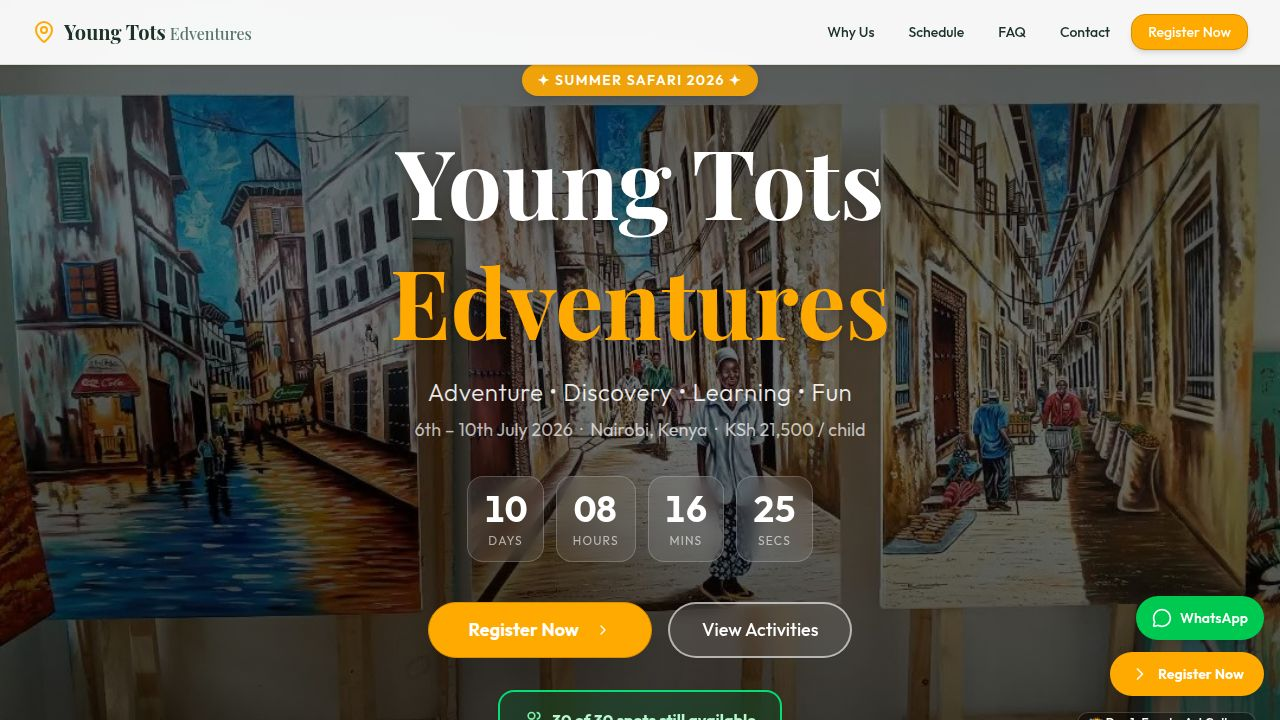
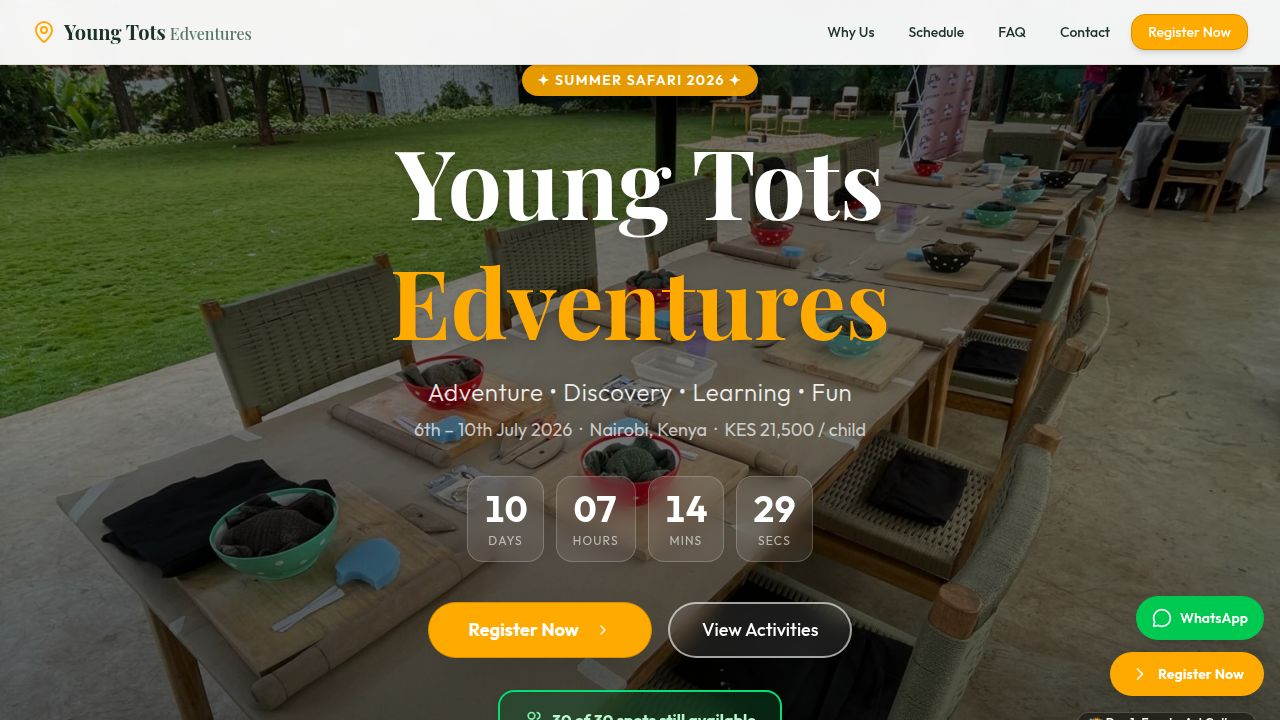
Update website images and gallery interactivity
Implement interactive photo gallery with day-specific filters and lightbox functionality, while restoring original hero and schedule card images.

Replit-Commit-Author: Agent
Replit-Commit-Session-Id: a6395f73-2dc2-4b6d-b7f3-4e983b257e11
Replit-Commit-Checkpoint-Type: full_checkpoint
Replit-Commit-Event-Id: 2cbfb461-026c-4d89-a068-555e33c44f44
Replit-Commit-Screenshot-Url: https://storage.googleapis.com/screenshot-production-us-central1/ba12384f-2d66-4afa-b3f0-8e179a0a3a71/a6395f73-2dc2-4b6d-b7f3-4e983b257e11/90hpMK4
Replit-Helium-Checkpoint-Created: true

diff --git a/artifacts/summer-safari/src/pages/landing.tsx b/artifacts/summer-safari/src/pages/landing.tsx
@@ -1,6 +1,6 @@
 import { Link } from "wouter";
 import { useState, useEffect } from "react";
-import { motion, type Variants } from "framer-motion";
+import { motion, AnimatePresence, type Variants } from "framer-motion";
 import { Button } from "@/components/ui/button";
 import { Card, CardContent } from "@/components/ui/card";
 import { Badge } from "@/components/ui/badge";
@@ -8,42 +8,88 @@ import {
   MapPin, Calendar, Clock, Bus, Apple, PhoneCall, MessageCircle,
   ChevronRight, Check, CheckCircle2, Users, Shield, Heart,
   ChevronDown, ChevronUp, Sparkles, Award, Camera, Utensils,
-  Mail, Compass, BookOpen, Leaf, PartyPopper
+  Mail, Compass, BookOpen, Leaf, PartyPopper, X
 } from "lucide-react";
 import { useGetRegistrationCount } from "@workspace/api-client-react";
 
-// Real Images
+// Original approved photos (Hero slideshow + Day cards)
 import enankaLogo from "@assets/Enanka_art_gallery_logo_1781863628482.png";
-import enankaPaintings from "@assets/Enanka_1_1782420466047.jpg";
-import enankaPainting from "@assets/Enanka_7_1782420523829.jpg";
+import enankaGallery from "@assets/Enanka_art_gallery_1781863628482.webp";
+import enankaClay from "@assets/Enanka__1781863628482.jpg";
+import enankaArt from "@assets/Enanka_art_1781863628482.webp";
 
 import pinsLogo from "@assets/Pins_logo_1781863628483.jpg";
+import pinsJungle from "@assets/kids_jungle_-_pins_1781863628483.webp";
+
+import stedmakLogo from "@assets/Stedmak_hotels_&_gardens_logo_1781863628483.jpg";
+import stedmakLion from "@assets/Stedmak_zoo_1781863628484.jpg";
+import stedmakLovebird from "@assets/Stedmak_zoo_2_1781863628483.jpg";
+
+import ginahLogo from "@assets/Ginah's_bakery_1781863628482.png";
+import ginahCookies from "@assets/Ginah's_1781863628482.jpg";
+
+import cinemaxLogo from "@assets/Cinemax_logo_1781863560866.png";
+import cinemaxInterior from "@assets/Century_cinemax_1781863628481.jpg";
+
+// New photos (Adventure in Pictures gallery only)
+import enankaPaintings from "@assets/Enanka_1_1782420466047.jpg";
+import enankaPainting from "@assets/Enanka_7_1782420523829.jpg";
 import pinsBowling from "@assets/Pins_1_1782420615995.jpg";
 import pinsSlides from "@assets/Pins_2_1782420640979.jpg";
 import pinsPlayground from "@assets/Pins_5_1782420667125.jpeg";
-
-import stedmakLogo from "@assets/Stedmak_hotels_&_gardens_logo_1781863628483.jpg";
 import stedmakNight from "@assets/Stedmak_1_1782420736044.jpg";
 import stedmakAerial from "@assets/Stedmak_2_1782420750496.jpg";
 import stedmakPlayground from "@assets/Stedmak_4_1782420793986.jpg";
-
-import ginahLogo from "@assets/Ginah's_bakery_1781863628482.png";
 import ginahCake from "@assets/Gina_3_1782420545576.jpg";
 import ginahCupcakes from "@assets/Gina_4_1782420577959.jpg";
 import ginahSafariCake from "@assets/Gina_5_1782420597645.jpg";
-
-import cinemaxLogo from "@assets/Cinemax_logo_1781863560866.png";
 import centuryConcession from "@assets/Century_1_1782420390082.jpeg";
 import centuryOrange from "@assets/Century_3_1782420407142.jpg";
 import centuryImax from "@assets/Century_4_1782420416012.jpg";
 
 const HERO_SLIDES = [
-  { src: enankaPaintings, alt: "Art Gallery – Day 1", caption: "Day 1 · Enanka Art Gallery" },
-  { src: pinsPlayground, alt: "Kids Playground – Day 2", caption: "Day 2 · Pins Entertainment" },
-  { src: stedmakAerial, alt: "Adventure Park – Day 3", caption: "Day 3 · Stedmak Gardens" },
-  { src: ginahSafariCake, alt: "Baking – Day 4", caption: "Day 4 · Ginah's Bakery" },
-  { src: centuryImax, alt: "Movie Day – Day 5", caption: "Day 5 · Movie Celebration" },
+  { src: enankaGallery, alt: "Art Gallery – Day 1", caption: "Day 1 · Enanka Art Gallery" },
+  { src: pinsJungle, alt: "Kids Jungle – Day 2", caption: "Day 2 · Pins Entertainment" },
+  { src: stedmakLion, alt: "Animal Park – Day 3", caption: "Day 3 · Stedmak Gardens" },
+  { src: ginahCookies, alt: "Baking – Day 4", caption: "Day 4 · Ginah's Bakery" },
+  { src: cinemaxInterior, alt: "Movie Day – Day 5", caption: "Day 5 · Movie Celebration" },
 ];
+
+type GalleryPhoto = { day: number; src: string; alt: string };
+
+const GALLERY: GalleryPhoto[] = [
+  { day: 1, src: enankaPaintings, alt: "Art exhibition at Enanka Art Gallery" },
+  { day: 1, src: enankaPainting, alt: "Colourful paintings at Enanka Art Gallery" },
+  { day: 2, src: pinsPlayground, alt: "Indoor playground at The Jungle, Pins" },
+  { day: 2, src: pinsSlides, alt: "Play slides at The Jungle" },
+  { day: 2, src: pinsBowling, alt: "Bowling lanes at Pins Entertainment" },
+  { day: 3, src: stedmakAerial, alt: "Adventure park at Stedmak Gardens" },
+  { day: 3, src: stedmakPlayground, alt: "Outdoor playground at Stedmak Gardens" },
+  { day: 3, src: stedmakNight, alt: "Gardens at Stedmak" },
+  { day: 4, src: ginahSafariCake, alt: "Safari celebration cake at Ginah's Bakery" },
+  { day: 4, src: ginahCupcakes, alt: "Decorated cupcakes at Ginah's Bakery" },
+  { day: 4, src: ginahCake, alt: "Decorated cake at Ginah's Bakery" },
+  { day: 5, src: centuryImax, alt: "IMAX cinema at Century, Junction Mall" },
+  { day: 5, src: centuryOrange, alt: "Cinema hall at Century" },
+  { day: 5, src: centuryConcession, alt: "Cinema concession at Century" },
+];
+
+const DAY_FILTERS = [
+  { id: 0, label: "All Days", emoji: "✨" },
+  { id: 1, label: "Day 1 · Enanka Art", emoji: "🎨" },
+  { id: 2, label: "Day 2 · The Jungle", emoji: "🎮" },
+  { id: 3, label: "Day 3 · Stedmak Gardens", emoji: "🦁" },
+  { id: 4, label: "Day 4 · Ginah's Bakery", emoji: "🍪" },
+  { id: 5, label: "Day 5 · Movie Day", emoji: "🎬" },
+];
+
+const DAY_HEADINGS: Record<number, string> = {
+  1: "🎨 Day 1 — Enanka Art Gallery",
+  2: "🎮 Day 2 — Adventure at The Jungle",
+  3: "🦁 Day 3 — Exploring Stedmak Gardens",
+  4: "🍪 Day 4 — Baking at Ginah's Bakery",
+  5: "🎬 Day 5 — Movie Day Grand Finale",
+};
 
 const SAFARI_START = new Date("2026-07-06T08:15:00+03:00");
 
@@ -140,6 +186,18 @@ export default function Landing() {
     const id = setInterval(() => setSlideIdx(i => (i + 1) % HERO_SLIDES.length), 4500);
     return () => clearInterval(id);
   }, []);
+
+  const [activeDay, setActiveDay] = useState(0);
+  const [lightbox, setLightbox] = useState<GalleryPhoto | null>(null);
+  useEffect(() => {
+    const onKey = (e: KeyboardEvent) => { if (e.key === "Escape") setLightbox(null); };
+    window.addEventListener("keydown", onKey);
+    return () => window.removeEventListener("keydown", onKey);
+  }, []);
+  useEffect(() => {
+    document.body.style.overflow = lightbox ? "hidden" : "";
+    return () => { document.body.style.overflow = ""; };
+  }, [lightbox]);
 
   const item: Variants = {
     hidden: { opacity: 0, y: 24 },
@@ -428,8 +486,9 @@ export default function Landing() {
                 <div className="flex flex-col md:flex-row">
                   <div className="w-full md:w-2/5 p-1 bg-amber-50 overflow-hidden">
                     <div className="grid grid-cols-2 gap-1 rounded-lg overflow-hidden h-[260px] md:h-full md:min-h-[320px]">
-                      <img src={enankaPaintings} alt="Art exhibition" className="w-full h-full object-cover group-hover:scale-105 transition-transform duration-700" />
-                      <img src={enankaPainting} alt="Child painting" className="w-full h-full object-cover group-hover:scale-105 transition-transform duration-700" />
+                      <img src={enankaGallery} alt="Gallery Setup" className="w-full h-full object-cover col-span-2 row-span-1 group-hover:scale-105 transition-transform duration-700" />
+                      <img src={enankaClay} alt="Clay Pottery" className="w-full h-full object-cover group-hover:scale-105 transition-transform duration-700" />
+                      <img src={enankaArt} alt="Art Studio" className="w-full h-full object-cover group-hover:scale-105 transition-transform duration-700" />
                     </div>
                   </div>
                   <div className="p-6 md:p-10 flex-1 flex flex-col justify-center">
@@ -455,12 +514,8 @@ export default function Landing() {
             <motion.div initial="hidden" whileInView="show" viewport={{ once: true, margin: "-80px" }} variants={item}>
               <Card className="overflow-hidden border-0 shadow-lg hover:shadow-xl transition-shadow bg-white group">
                 <div className="flex flex-col md:flex-row-reverse">
-                  <div className="w-full md:w-2/5 p-1 bg-green-50 overflow-hidden">
-                    <div className="grid grid-cols-2 gap-1 rounded-lg overflow-hidden h-[260px] md:h-full md:min-h-[320px]">
-                      <img src={pinsPlayground} alt="Indoor playground" className="w-full h-full object-cover col-span-2 group-hover:scale-105 transition-transform duration-700" />
-                      <img src={pinsSlides} alt="Play slides" className="w-full h-full object-cover group-hover:scale-105 transition-transform duration-700" />
-                      <img src={pinsBowling} alt="Bowling" className="w-full h-full object-cover group-hover:scale-105 transition-transform duration-700" />
-                    </div>
+                  <div className="w-full md:w-2/5 h-[260px] md:h-auto overflow-hidden bg-green-50">
+                    <img src={pinsJungle} alt="Jungle Playground" className="w-full h-full object-cover group-hover:scale-105 transition-transform duration-700" />
                   </div>
                   <div className="p-6 md:p-10 flex-1 flex flex-col justify-center">
                     <div className="flex items-center justify-between mb-4">
@@ -487,9 +542,8 @@ export default function Landing() {
                 <div className="flex flex-col md:flex-row">
                   <div className="w-full md:w-2/5 p-1 bg-amber-50 overflow-hidden">
                     <div className="grid grid-cols-2 gap-1 rounded-lg overflow-hidden min-h-[260px]">
-                      <img src={stedmakAerial} alt="Adventure park" className="w-full h-full object-cover min-h-[260px] col-span-2 group-hover:scale-105 transition-transform duration-700" />
-                      <img src={stedmakPlayground} alt="Playground" className="w-full h-full object-cover min-h-[200px] group-hover:scale-105 transition-transform duration-700" />
-                      <img src={stedmakNight} alt="Gardens" className="w-full h-full object-cover min-h-[200px] group-hover:scale-105 transition-transform duration-700" />
+                      <img src={stedmakLion} alt="Animal Park" className="w-full h-full object-cover min-h-[260px] group-hover:scale-105 transition-transform duration-700" />
+                      <img src={stedmakLovebird} alt="Bird Park" className="w-full h-full object-cover min-h-[260px] group-hover:scale-105 transition-transform duration-700" />
                     </div>
                   </div>
                   <div className="p-6 md:p-10 flex-1 flex flex-col justify-center">
@@ -515,12 +569,8 @@ export default function Landing() {
             <motion.div initial="hidden" whileInView="show" viewport={{ once: true, margin: "-80px" }} variants={item}>
               <Card className="overflow-hidden border-0 shadow-lg hover:shadow-xl transition-shadow bg-white group">
                 <div className="flex flex-col md:flex-row-reverse">
-                  <div className="w-full md:w-2/5 p-1 bg-amber-50 overflow-hidden">
-                    <div className="grid grid-cols-2 gap-1 rounded-lg overflow-hidden h-[260px] md:h-full md:min-h-[320px]">
-                      <img src={ginahSafariCake} alt="Safari cake" className="w-full h-full object-cover col-span-2 group-hover:scale-105 transition-transform duration-700" />
-                      <img src={ginahCupcakes} alt="Safari cupcakes" className="w-full h-full object-cover group-hover:scale-105 transition-transform duration-700" />
-                      <img src={ginahCake} alt="Decorated cake" className="w-full h-full object-cover group-hover:scale-105 transition-transform duration-700" />
-                    </div>
+                  <div className="w-full md:w-2/5 h-[260px] md:h-auto overflow-hidden bg-amber-50">
+                    <img src={ginahCookies} alt="Baking cookies" className="w-full h-full object-cover group-hover:scale-105 transition-transform duration-700" />
                   </div>
                   <div className="p-6 md:p-10 flex-1 flex flex-col justify-center">
                     <div className="flex items-center justify-between mb-4">
@@ -545,12 +595,8 @@ export default function Landing() {
             <motion.div initial="hidden" whileInView="show" viewport={{ once: true, margin: "-80px" }} variants={item}>
               <Card className="overflow-hidden border-0 shadow-lg hover:shadow-xl transition-shadow bg-white group">
                 <div className="flex flex-col md:flex-row">
-                  <div className="w-full md:w-2/5 p-1 bg-slate-900 overflow-hidden">
-                    <div className="grid grid-cols-2 gap-1 rounded-lg overflow-hidden h-[260px] md:h-full md:min-h-[320px]">
-                      <img src={centuryImax} alt="IMAX cinema" className="w-full h-full object-cover col-span-2 group-hover:scale-105 transition-transform duration-700" />
-                      <img src={centuryOrange} alt="Cinema hall" className="w-full h-full object-cover group-hover:scale-105 transition-transform duration-700" />
-                      <img src={centuryConcession} alt="Concession stand" className="w-full h-full object-cover group-hover:scale-105 transition-transform duration-700" />
-                    </div>
+                  <div className="w-full md:w-2/5 h-[260px] md:h-auto overflow-hidden bg-slate-900">
+                    <img src={cinemaxInterior} alt="Cinema Interior" className="w-full h-full object-cover opacity-90 group-hover:scale-105 transition-transform duration-700" />
                   </div>
                   <div className="p-6 md:p-10 flex-1 flex flex-col justify-center">
                     <div className="flex items-center justify-between mb-4">
@@ -589,36 +635,57 @@ export default function Landing() {
             </motion.p>
           </motion.div>
 
-          <motion.div initial="hidden" whileInView="show" viewport={{ once: true }} variants={stagger} className="columns-2 md:columns-3 lg:columns-4 gap-3 space-y-3">
-            {[
-              { src: enankaPaintings, alt: "Art exhibition" },
-              { src: pinsPlayground, alt: "Indoor playground" },
-              { src: ginahSafariCake, alt: "Safari celebration cake" },
-              { src: stedmakAerial, alt: "Adventure park" },
-              { src: enankaPainting, alt: "Child painting" },
-              { src: pinsBowling, alt: "Bowling lanes" },
-              { src: ginahCupcakes, alt: "Safari cupcakes" },
-              { src: centuryImax, alt: "IMAX cinema" },
-              { src: stedmakPlayground, alt: "Outdoor playground" },
-              { src: pinsSlides, alt: "Play slides" },
-              { src: ginahCake, alt: "Decorated cake" },
-              { src: centuryOrange, alt: "Cinema hall" },
-              { src: stedmakNight, alt: "Gardens at night" },
-              { src: centuryConcession, alt: "Cinema concession" },
-            ].map(({ src, alt }, i) => (
-              <motion.div
-                key={i}
-                variants={item}
-                className="break-inside-avoid overflow-hidden rounded-xl shadow-sm hover:shadow-xl transition-all duration-300 group cursor-pointer"
+          {/* Day filter bar (horizontally scrollable on mobile) */}
+          <div className="flex gap-2 overflow-x-auto pb-3 mb-10 -mx-4 px-4 sm:flex-wrap sm:justify-center sm:mx-0 sm:px-0 scrollbar-hide">
+            {DAY_FILTERS.map((f) => (
+              <button
+                key={f.id}
+                onClick={() => setActiveDay(f.id)}
+                aria-pressed={activeDay === f.id}
+                className={`shrink-0 inline-flex items-center gap-1.5 rounded-full px-4 py-2 text-sm font-semibold transition-all border ${
+                  activeDay === f.id
+                    ? "bg-primary text-white border-primary shadow-md"
+                    : "bg-white text-foreground/70 border-border hover:border-primary/50 hover:text-primary"
+                }`}
               >
-                <img
-                  src={src}
-                  alt={alt}
-                  className="w-full h-auto object-cover group-hover:scale-105 transition-transform duration-500"
-                />
-              </motion.div>
+                <span aria-hidden="true">{f.emoji}</span>{f.label}
+              </button>
             ))}
-          </motion.div>
+          </div>
+
+          <AnimatePresence mode="wait">
+            <motion.div
+              key={activeDay}
+              initial={{ opacity: 0 }}
+              animate={{ opacity: 1 }}
+              exit={{ opacity: 0 }}
+              transition={{ duration: 0.35 }}
+            >
+              {(activeDay === 0 ? [1, 2, 3, 4, 5] : [activeDay]).map((day) => (
+                <div key={day} className="mb-14 last:mb-0">
+                  <h3 className="text-xl md:text-2xl font-serif font-bold text-foreground mb-6 text-center sm:text-left">
+                    {DAY_HEADINGS[day]}
+                  </h3>
+                  <div className="grid grid-cols-2 md:grid-cols-3 gap-3 md:gap-4">
+                    {GALLERY.filter((g) => g.day === day).map((g, i) => (
+                      <button
+                        key={i}
+                        onClick={() => setLightbox(g)}
+                        aria-label={`View photo: ${g.alt}`}
+                        className="overflow-hidden rounded-xl shadow-sm hover:shadow-xl transition-all duration-300 group cursor-pointer aspect-[4/3]"
+                      >
+                        <img
+                          src={g.src}
+                          alt={g.alt}
+                          className="w-full h-full object-cover group-hover:scale-105 transition-transform duration-500"
+                        />
+                      </button>
+                    ))}
+                  </div>
+                </div>
+              ))}
+            </motion.div>
+          </AnimatePresence>
         </div>
       </section>
 
@@ -907,6 +974,41 @@ export default function Landing() {
           </div>
         </div>
       </section>
+
+      {/* ── Lightbox ── */}
+      <AnimatePresence>
+        {lightbox && (
+          <motion.div
+            initial={{ opacity: 0 }}
+            animate={{ opacity: 1 }}
+            exit={{ opacity: 0 }}
+            onClick={() => setLightbox(null)}
+            className="fixed inset-0 z-50 flex items-center justify-center bg-black/85 backdrop-blur-sm p-4"
+            role="dialog"
+            aria-modal="true"
+            aria-label={lightbox.alt}
+          >
+            <button
+              onClick={() => setLightbox(null)}
+              aria-label="Close image"
+              className="absolute top-5 right-5 text-white/80 hover:text-white p-2"
+            >
+              <X className="h-8 w-8" />
+            </button>
+            <motion.img
+              key={lightbox.src}
+              src={lightbox.src}
+              alt={lightbox.alt}
+              initial={{ scale: 0.92, opacity: 0 }}
+              animate={{ scale: 1, opacity: 1 }}
+              exit={{ scale: 0.92, opacity: 0 }}
+              transition={{ duration: 0.25 }}
+              onClick={(e) => e.stopPropagation()}
+              className="max-h-[85vh] max-w-[92vw] rounded-2xl shadow-2xl object-contain"
+            />
+          </motion.div>
+        )}
+      </AnimatePresence>
 
       {/* ── Footer ── */}
       <footer className="bg-foreground text-background py-10 text-center text-sm">

diff --git a/artifacts/summer-safari/src/index.css b/artifacts/summer-safari/src/index.css
@@ -365,3 +365,13 @@
     inset: -1px;
   }
 }
+
+@layer utilities {
+  .scrollbar-hide {
+    -ms-overflow-style: none;
+    scrollbar-width: none;
+  }
+  .scrollbar-hide::-webkit-scrollbar {
+    display: none;
+  }
+}
